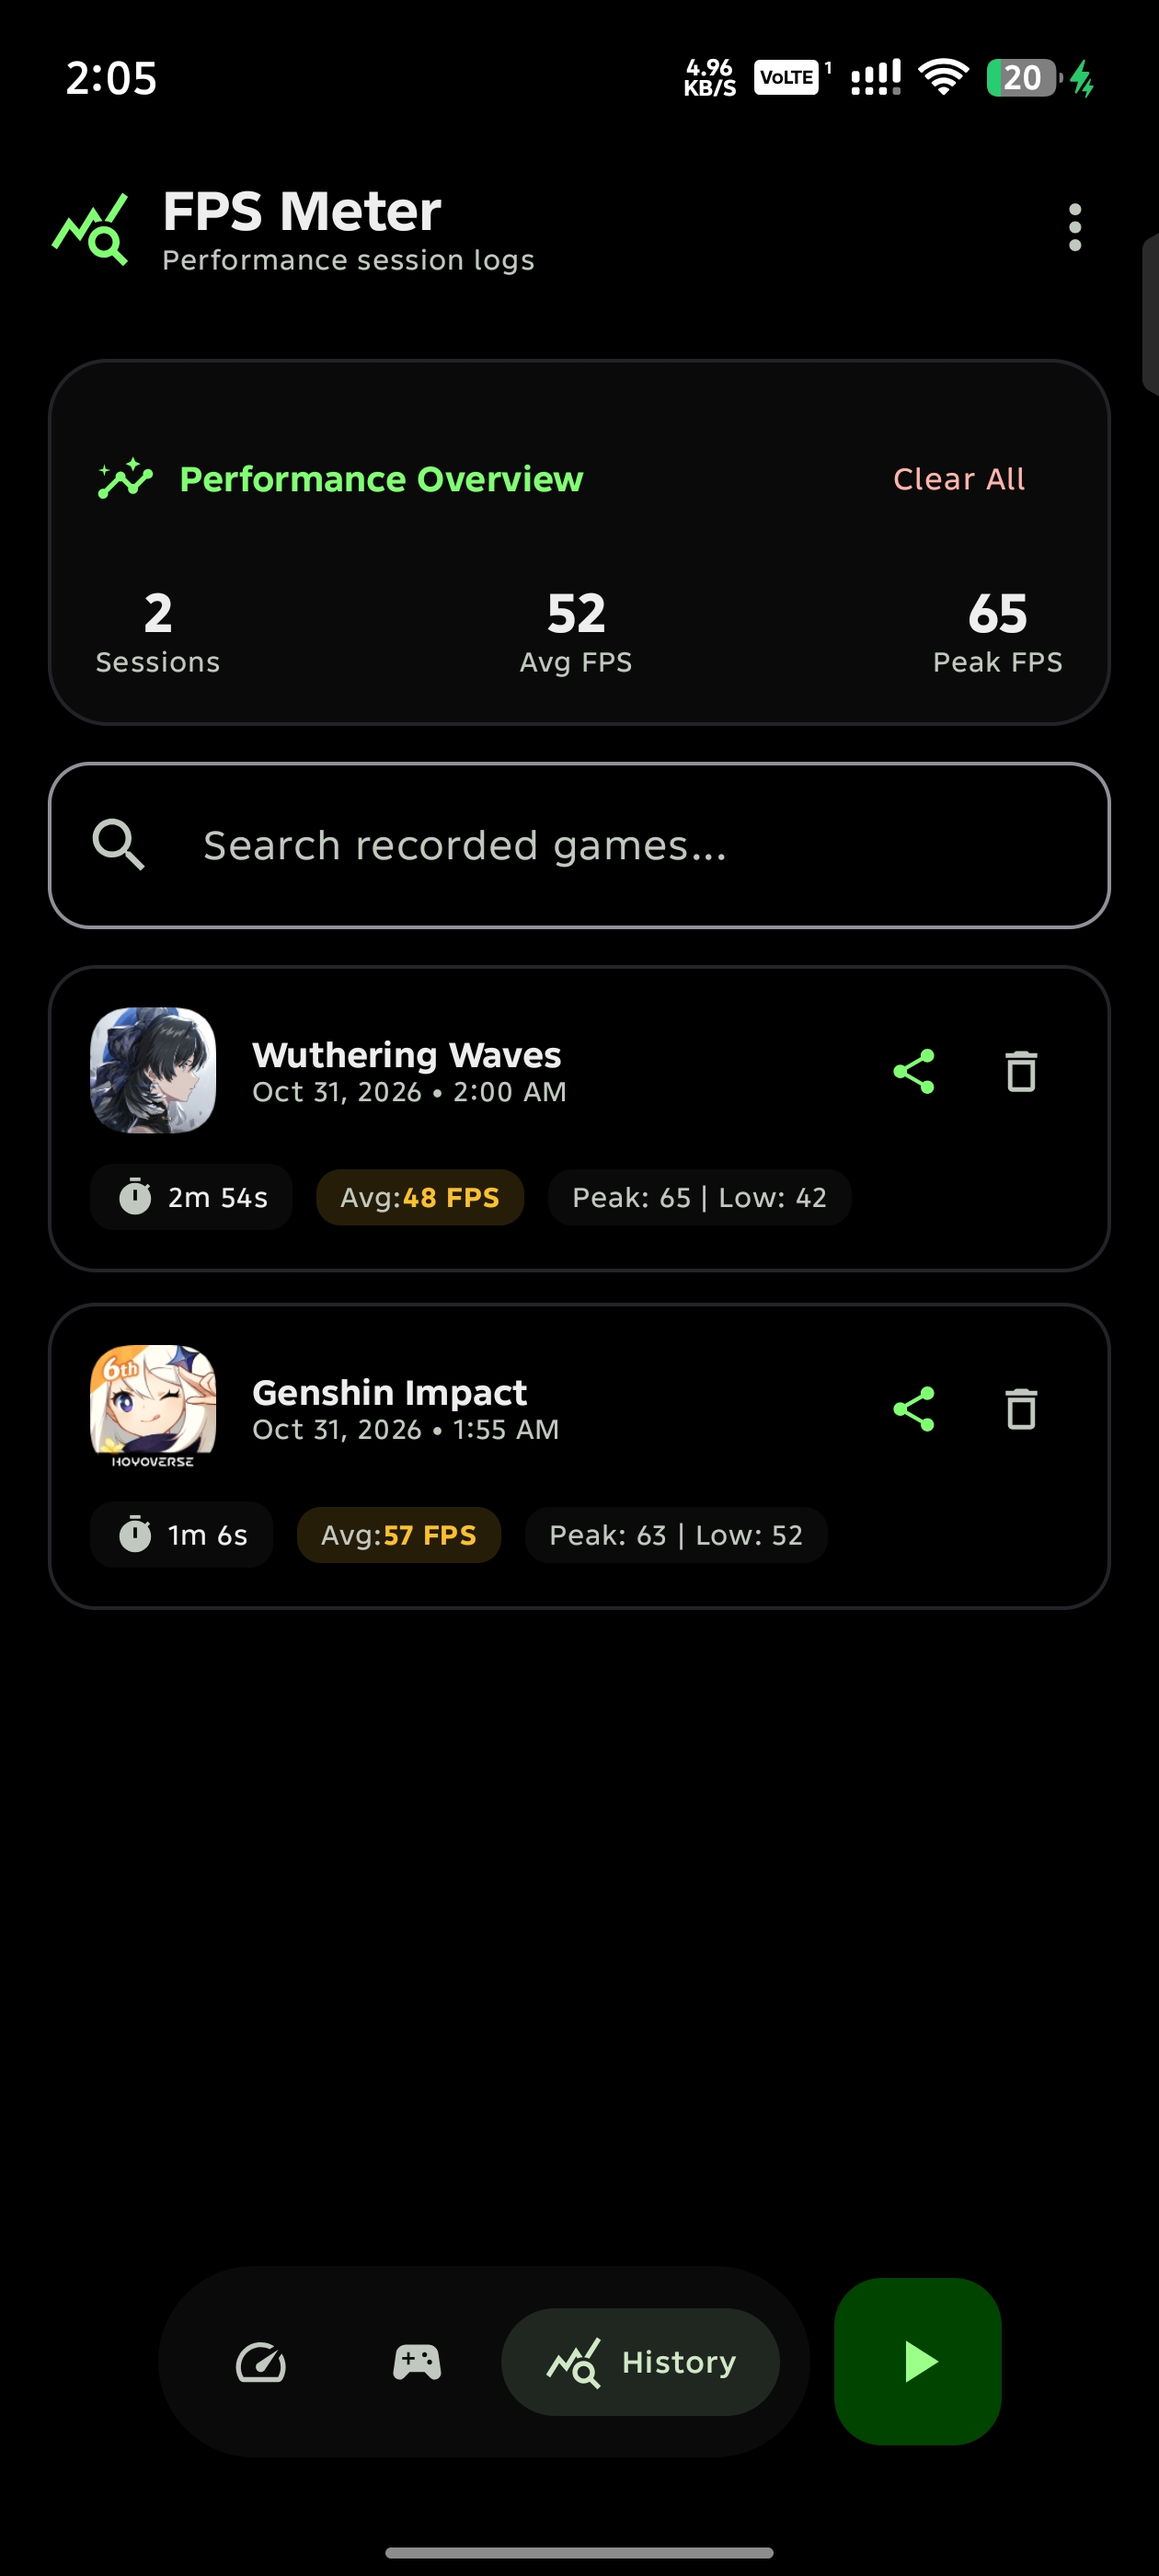
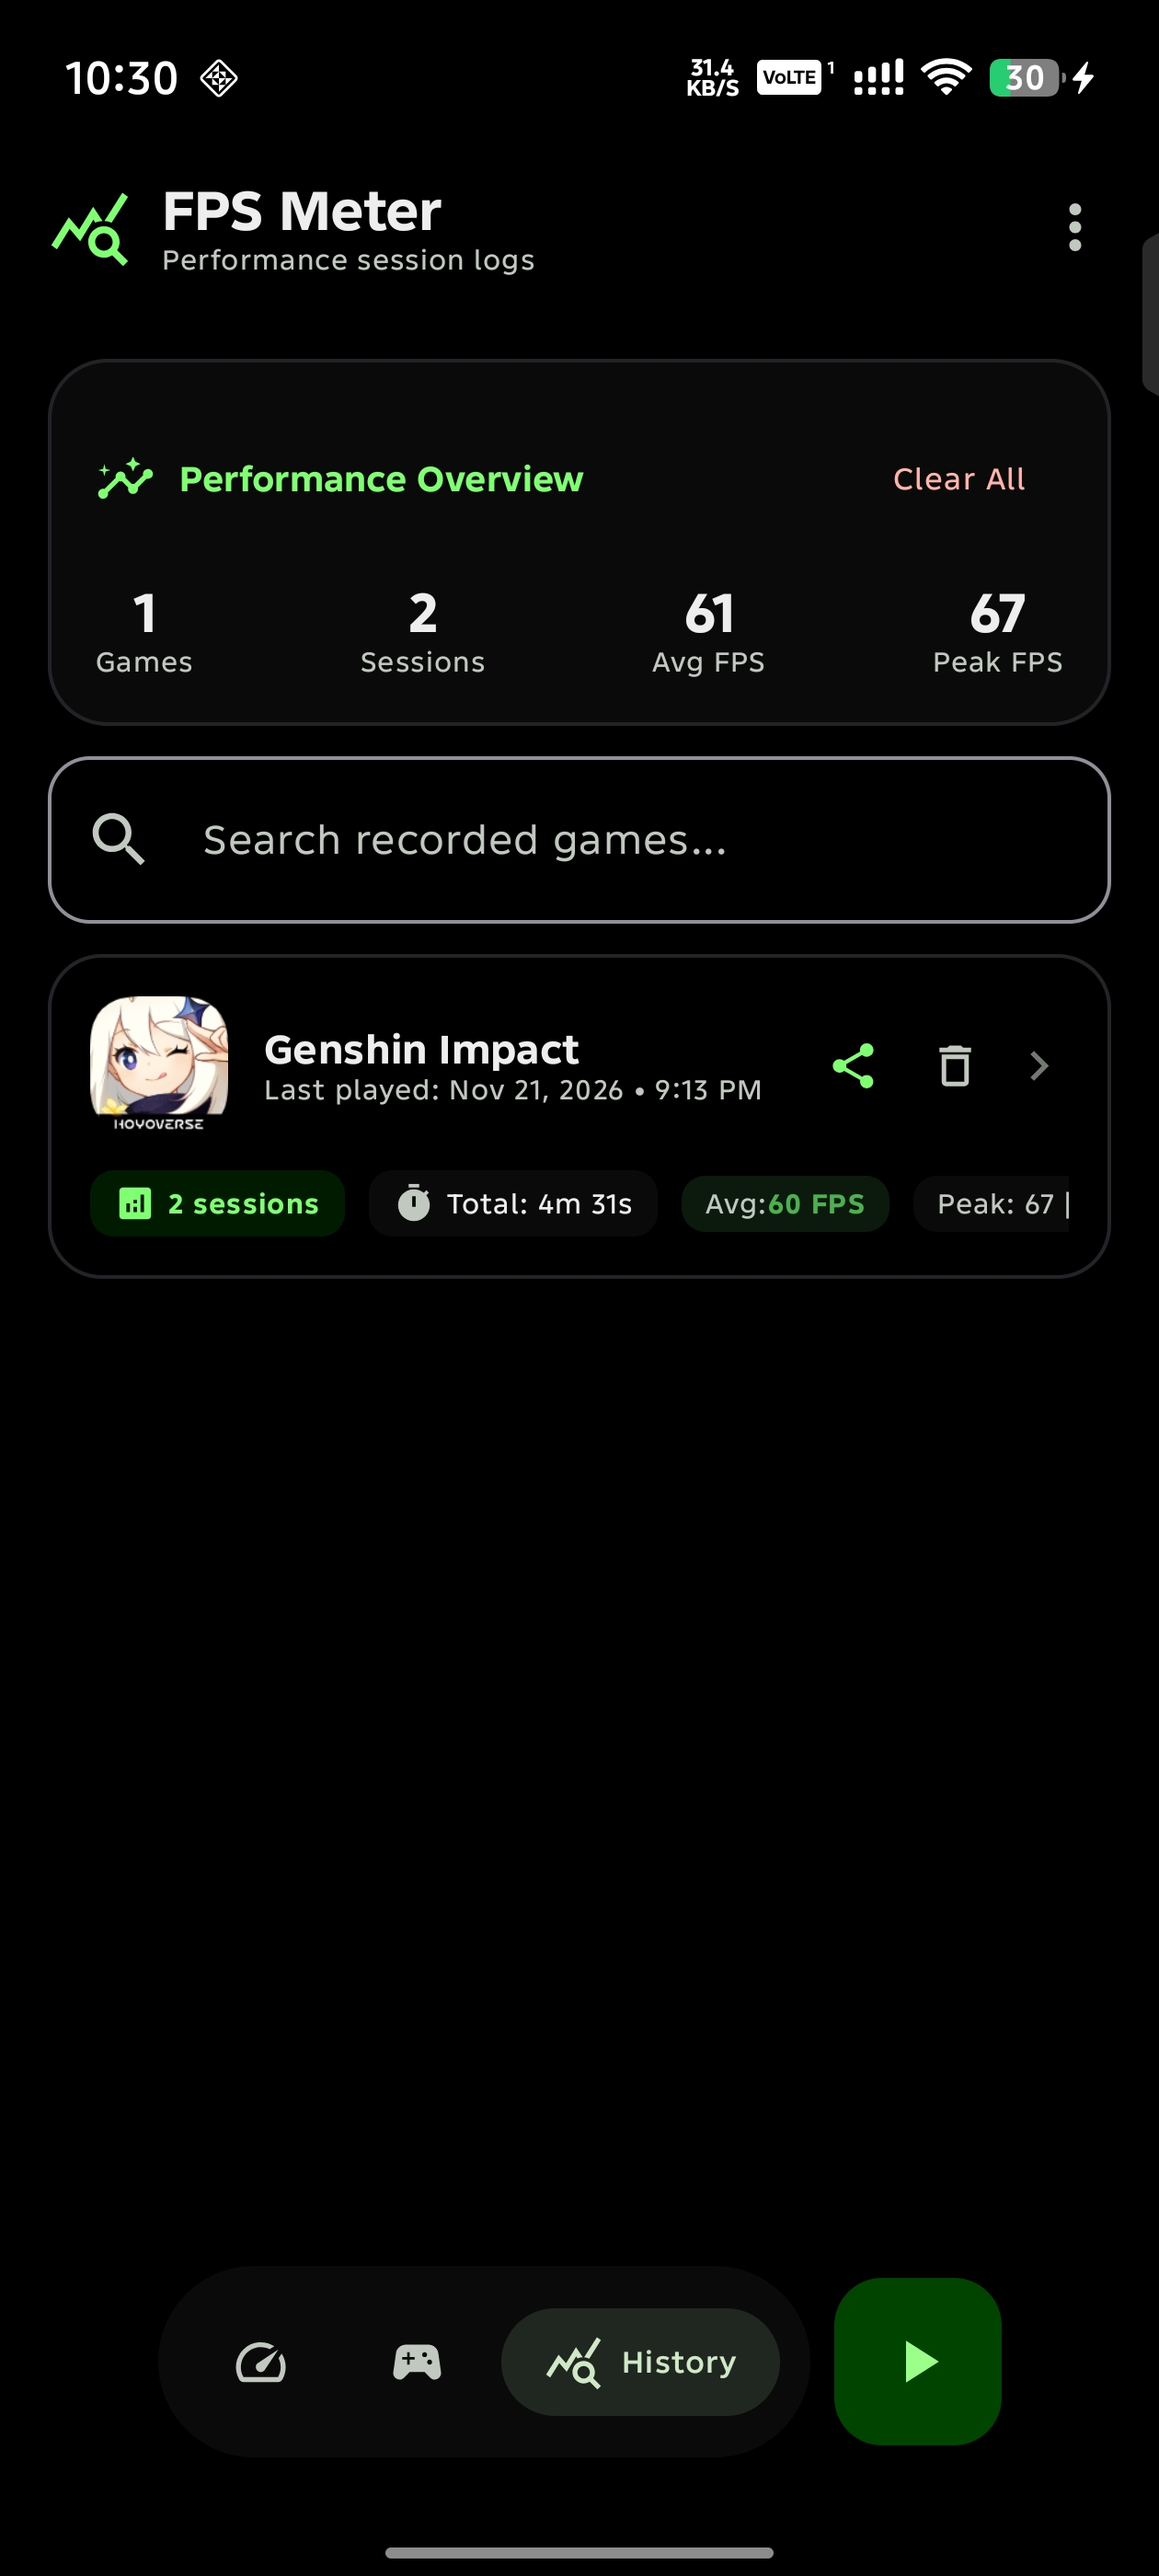
docs: update app screenshots

diff --git a/docs/index.html b/docs/index.html
@@ -384,6 +384,17 @@
           </div>
         </div>
 
+        <!-- Screenshot 3.7: Game Analytics -->
+        <div class="screenshot-card" data-src="assets/Screenshot_analytics.jpg"
+          data-caption="Game Performance Analytics with Framerate & Thermal Curves, Frame Times, and 10-Metric Summary Card">
+          <img src="assets/Screenshot_analytics.jpg" alt="Game Performance Analytics" class="screenshot-img"
+            loading="lazy">
+          <div class="screenshot-caption">
+            <span>Game Analytics</span>
+            <span class="material-symbols-outlined">open_in_full</span>
+          </div>
+        </div>
+
         <!-- Screenshot 4 -->
         <div class="screenshot-card" data-src="assets/Screenshot_4.jpg"
           data-caption="Application Settings with Theme, Dark AMOLED, Dynamic Colors & Diagnostics">

diff --git a/README.md b/README.md
@@ -69,9 +69,9 @@ Visit the [Official Website & Showcase](https://rdevz-ph.github.io/FPS-Meter-And
 ## Screenshots
 
 ### Application Interface
-| Meter & Telemetry | Games & Auto-Recording | Performance History Logs | Application Settings |
-|:-----------------:|:----------------------:|:------------------------:|:--------------------:|
-| ![Meter & Telemetry](./screenshots/Screenshot_1.jpg) | ![Games & Auto-Recording](./screenshots/Screenshot_2.jpg) | ![Performance History Logs](./screenshots/Screenshot_3.jpg) | ![Application Settings](./screenshots/Screenshot_4.jpg) |
+| Meter & Telemetry | Games & Auto-Recording | Performance History Logs | Game Performance Analytics | Application Settings |
+|:-----------------:|:----------------------:|:------------------------:|:--------------------------:|:--------------------:|
+| ![Meter & Telemetry](./screenshots/Screenshot_1.jpg) | ![Games & Auto-Recording](./screenshots/Screenshot_2.jpg) | ![Performance History Logs](./screenshots/3.7/3.7_history_screen.jpg) | ![Game Performance Analytics](./screenshots/3.7/3.7_analytics_screen.jpg) | ![Application Settings](./screenshots/Screenshot_4.jpg) |
 
 > [!TIP]
 > You can customize the interface appearance under App Theme in Settings. Choose between Follow System, Dark, and Light modes, toggle pure black for AMOLED displays, or enable Dynamic Color to adapt UI accents to your device wallpaper.
